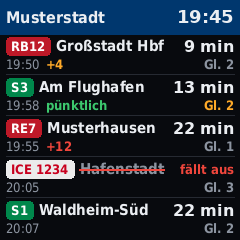
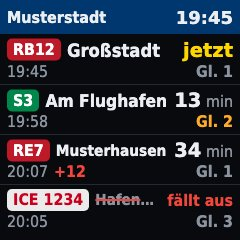
feat(pages): bahn departures page as HTML template

diff --git a/pages/bahn/template.html b/pages/bahn/template.html
@@ -1,0 +1,75 @@
+{% extends "base.html" %}
+{% block head %}
+{% set n = [rows | length, 1] | max %}
+{% set row_h = (200 // ([n, 6] | min)) %}
+{% set k = [1.0, [1.5, row_h / 41] | min] | max %}
+<style>
+.cond{font-family:'DejaVu Sans Condensed','DejaVu Sans',sans-serif;}
+.hdr{position:absolute;left:0;top:0;width:240px;height:34px;background:var(--header-bg);display:flex;align-items:center;padding:0 7px;box-sizing:border-box;}
+.hdr .title{flex:1;min-width:0;font-weight:700;font-size:16px;white-space:nowrap;overflow:hidden;text-overflow:ellipsis;margin-right:14px;}
+.hdr .clock{font-weight:700;font-size:18px;}
+.msg{position:absolute;left:0;top:34px;width:240px;height:200px;display:flex;flex-direction:column;align-items:center;justify-content:center;text-align:center;}
+.msg h1{margin:0;font-size:17px;}
+.msg p{margin:8px 0 0;font-size:13px;color:var(--muted);}
+.board{position:absolute;left:0;top:34px;width:240px;height:200px;}
+.row{--k:{{ k }};position:relative;height:{{ row_h }}px;box-sizing:border-box;padding:0 7px;}
+.row + .row{border-top:1px solid var(--divider);}
+.l1,.l2{position:absolute;left:7px;right:7px;display:flex;align-items:center;transform:translateY(-50%);white-space:nowrap;}
+.l1{top:31%;}
+.l2{top:74%;font-size:calc(13px * var(--k));}
+.badge{flex:none;max-width:calc(68px * var(--k));overflow:hidden;text-overflow:ellipsis;box-sizing:border-box;padding:0 calc(5px * var(--k));height:calc(18px * var(--k));line-height:calc(18px * var(--k));border-radius:calc(4px * var(--k));font-weight:700;font-size:calc(13px * var(--k));text-align:center;margin-right:6px;}
+.badge.s{background:rgb(0,135,75);color:#fff;}
+.badge.long{background:rgb(235,235,235);color:rgb(200,0,30);}
+.badge.regional{background:rgb(190,25,40);color:#fff;}
+.badge.other{background:rgb(90,95,110);color:#fff;}
+.dest{flex:1;min-width:0;overflow:hidden;text-overflow:ellipsis;font-weight:700;font-size:calc(15px * var(--k));margin-right:6px;}
+.dest.cancelled{color:var(--muted);text-decoration:line-through;text-decoration-color:var(--red);text-decoration-thickness:2px;}
+.right{flex:none;display:flex;align-items:baseline;}
+.right .val{font-family:'DejaVu Sans',sans-serif;font-weight:700;font-size:calc(16px * var(--k));}
+.right .val.soon{color:var(--yellow);}
+.right .val.cancelled{font-family:'DejaVu Sans Condensed',sans-serif;font-size:calc(13px * var(--k));color:var(--red);}
+.right .unit{color:var(--muted);font-size:calc(13px * var(--k));margin-left:0.3em;}
+.sched{color:var(--muted);}
+.delay{font-weight:700;margin-left:6px;}
+.delay.minor{color:var(--orange);}
+.delay.major{color:var(--red);}
+.plat{margin-left:auto;font-weight:700;color:var(--muted);}
+.plat.changed{color:var(--orange);}
+</style>
+{% endblock %}
+{% block body %}
+<div class="hdr cond"><span class="title">{{ title }}</span><span class="clock" style="font-family:'DejaVu Sans'">{{ clock }}</span></div>
+{% if message %}
+<div class="msg"><h1>{{ message }}</h1>{% if sub %}<p>{{ sub }}</p>{% endif %}</div>
+{% else %}
+<div class="board cond">
+{% for r in rows[:6] %}
+<div class="row">
+  <div class="l1">
+    <span class="badge {{ r.badge }}">{{ r.train }}</span>
+    <span class="dest{% if r.cancelled %} cancelled{% endif %}">{{ r.destination }}</span>
+    <span class="right"><span class="val {{ r.right_class }}">{{ r.right }}</span>{% if r.unit %}<span class="unit">{{ r.unit }}</span>{% endif %}</span>
+  </div>
+  <div class="l2">
+    <span class="sched">{{ r.scheduled }}</span>{% if r.delay %}<span class="delay {{ r.delay_class }}">+{{ r.delay }}</span>{% endif %}
+    {% if r.platform %}<span class="plat{% if r.platform_changed %} changed{% endif %}">{{ r.platform }}</span>{% endif %}
+  </div>
+</div>
+{% endfor %}
+</div>
+<script>
+// Too long: drop a trailing " Hbf", then shrink the font towards its base size, then ellipsize.
+// Runs on load, when the inlined fonts are ready, so the measurements are right.
+window.addEventListener('load', function () { document.querySelectorAll('.dest').forEach(function (el) {
+  var over = function () { return el.scrollWidth > el.clientWidth; };
+  if (over() && / Hbf$/.test(el.textContent)) {
+    el.textContent = el.textContent.replace(/ Hbf$/, '');
+  }
+  for (var size = parseFloat(getComputedStyle(el).fontSize); over() && size > 15; ) {
+    size = Math.max(15, size - 1);
+    el.style.fontSize = size + 'px';
+  }
+}); });
+</script>
+{% endif %}
+{% endblock %}

diff --git a/pages/bahn/test_bahn.py b/pages/bahn/test_bahn.py
@@ -1,8 +1,17 @@
 import importlib.util
+import io
 import sys
 from datetime import datetime
 from pathlib import Path
 from zoneinfo import ZoneInfo
+
+import pytest
+from PIL import Image
+
+from glancebox.config import AppConfig, PageConfig
+from glancebox.frames import render_page
+from glancebox.pages import PageContext, load_page_types
+from glancebox.render import Renderer
 
 # Load by file path: pages/bahn is not an installed package, and the top-level
 # name `departures` must not leak into sys.modules.
@@ -78,3 +87,92 @@ def test_minutes_until_with_delay_and_midnight():
     late = datetime(2026, 11, 12, 23, 55, tzinfo=TZ)
     d2 = Departure("S1", "X", "00:05", 0, None, False, False)
     assert d2.minutes_until(late) == 10
+
+
+# --- page.py (fetch + template) ---------------------------------------------------------
+
+PAGES_DIR = Path(__file__).resolve().parents[1]
+NOW = datetime(2026, 11, 12, 19, 49, tzinfo=TZ)
+
+
+@pytest.fixture
+def bahn(monkeypatch):
+    ptype = load_page_types([PAGES_DIR])["bahn"]
+    module = sys.modules["glancebox_pages.bahn"]
+    calls = []
+
+    def fake(base_url, station, **kw):
+        calls.append((base_url, station, kw))
+        return parse(SAMPLE, station)
+
+    monkeypatch.setattr(module.departures, "fetch", fake)
+    return ptype, module, calls
+
+
+def _ctx(now=NOW):
+    return PageContext(now=now, lang="de", timezone="Europe/Berlin")
+
+
+def test_fetch_rows_from_sample(bahn):
+    ptype, _, calls = bahn
+    data = ptype.fetch({"station": "Musterstadt", "via": ["West", "Nord"], "platforms": "1,2"},
+                       _ctx())
+    assert data["title"] == "Musterstadt"
+    assert data["clock"] == "19:49"
+    assert data["message"] is None
+    rows = data["rows"]
+    assert [r["right"] for r in rows] == ["5", "9", "fällt aus"]
+    assert rows[0]["unit"] == "min"
+    assert rows[0]["badge"] == "regional"
+    assert rows[0]["delay"] == 4 and rows[0]["delay_class"] == "minor"
+    assert rows[1]["badge"] == "s" and rows[1]["platform_changed"] is True
+    assert rows[1]["platform"] == "Gl. 2"
+    assert rows[2]["right_class"] == "cancelled" and rows[2]["cancelled"] is True
+    assert rows[2]["badge"] == "long" and rows[2]["unit"] == ""
+    base_url, station, kw = calls[0]
+    assert base_url == "https://dbf.finalrewind.org" and station == "Musterstadt"
+    assert kw["via"] == "West,Nord" and kw["platforms"] == "1,2"
+    assert kw["limit"] == 4 and kw["tz"] == "Europe/Berlin"
+
+
+def test_fetch_dbf_error_gives_message(bahn, monkeypatch):
+    ptype, module, _ = bahn
+
+    def boom(*a, **kw):
+        raise RuntimeError("DBF down")
+
+    monkeypatch.setattr(module.departures, "fetch", boom)
+    data = ptype.fetch({"station": "X", "title": "Mein Bahnhof"}, _ctx())
+    assert data["message"] == "Keine Daten" and data["sub"] == "Stand 19:49"
+    assert data["rows"] == [] and data["title"] == "Mein Bahnhof"
+
+
+def test_fetch_empty_list(bahn, monkeypatch):
+    ptype, module, _ = bahn
+    monkeypatch.setattr(module.departures, "fetch", lambda *a, **kw: [])
+    data = ptype.fetch({"station": "X"}, _ctx())
+    assert data["message"] == "Keine Abfahrten" and data["rows"] == []
+
+
+def test_right_soon_and_hours(bahn):
+    _, module, _ = bahn
+    soon = Departure("S1", "X", "19:50", 0, None, False, False)
+    later = Departure("S1", "X", "21:10", 0, None, False, False)
+    r1, r2 = (module._row(d, NOW) for d in (soon, later))
+    assert (r1["right"], r1["unit"], r1["right_class"]) == ("1", "min", "soon")
+    assert (r2["right"], r2["unit"], r2["right_class"]) == ("21:10", "", "")
+    now = Departure("S1", "X", "19:49", 0, None, False, False)
+    assert module._row(now, NOW)["right"] == "jetzt"
+
+
+@pytest.mark.browser
+async def test_template_renders_sample(bahn):
+    ptype, _, _ = bahn
+    cfg = AppConfig(interval=30, timezone="Europe/Berlin", lang="de",
+                    pages=(), pages_dirs=(PAGES_DIR,))
+    page = PageConfig(index=0, type="bahn", options={"station": "Musterstadt"},
+                      duration=30, refresh=60)
+    async with Renderer() as r:
+        out = await render_page(page, ptype, cfg, r, NOW.timestamp())
+    img = Image.open(io.BytesIO(out))
+    assert img.format == "JPEG" and img.size == (240, 240)

diff --git a/pages/bahn/page.py b/pages/bahn/page.py
@@ -2,7 +2,16 @@
 
 from __future__ import annotations
 
+import logging
+
+from . import departures
+
+DEFAULT_DBF_URL = "https://dbf.finalrewind.org"
+DEFAULT_LIMIT = 4
 MIN_REFRESH = 60  # DB Fahrplan rule: poll at most once a minute
+
+
+log = logging.getLogger(__name__)
 
 
 def validate(options: dict) -> None:
@@ -15,5 +24,74 @@ def validate(options: dict) -> None:
         raise ValueError("limit must be an integer between 1 and 6")
 
 
+def _joined(value) -> str | None:
+    if value is None:
+        return None
+    if isinstance(value, (list, tuple)):
+        value = ",".join(str(v).strip() for v in value if str(v).strip())
+    return str(value).strip() or None
+
+
+def _badge(train: str) -> str:
+    t = train.upper()
+    if t.startswith("S"):
+        return "s"
+    if t.startswith(("ICE", "IC", "EC", "FLX", "NJ")):
+        return "long"
+    if t.startswith(("RE", "RB", "RS", "IRE")):
+        return "regional"
+    return "other"
+
+
+def _row(dep, now) -> dict:
+    unit = ""
+    right_class = ""
+    if dep.cancelled:
+        right, right_class = "fällt aus", "cancelled"
+    else:
+        mins = dep.minutes_until(now)
+        if mins <= 0:
+            right = "jetzt"
+        elif mins < 60:
+            right, unit = str(mins), "min"
+        else:
+            right = dep.realtime(now).strftime("%H:%M")
+        if mins <= 3:
+            right_class = "soon"
+    delay = dep.delay if not dep.cancelled and dep.delay and dep.delay > 0 else None
+    return {
+        "train": dep.train,
+        "badge": _badge(dep.train),
+        "destination": dep.destination,
+        "right": right,
+        "unit": unit,
+        "right_class": right_class,
+        "scheduled": dep.scheduled,
+        "delay": delay,
+        "delay_class": "minor" if delay is not None and delay < 6 else "major",
+        "platform": f"Gl. {dep.platform}" if dep.platform else "",
+        "platform_changed": dep.platform_changed,
+        "cancelled": dep.cancelled,
+    }
+
+
 def fetch(options: dict, ctx) -> dict:
-    raise NotImplementedError("filled in by the bahn page task")
+    station = options["station"].strip()
+    limit = options.get("limit", DEFAULT_LIMIT)
+    clock = ctx.now.strftime("%H:%M")
+    data = {"title": options.get("title") or station, "clock": clock, "rows": [],
+            "message": None, "sub": None}
+    try:
+        deps = departures.fetch(
+            options.get("dbf_url", DEFAULT_DBF_URL).rstrip("/"), station,
+            via=_joined(options.get("via")), platforms=_joined(options.get("platforms")),
+            limit=limit, tz=ctx.timezone)
+    except Exception as exc:  # noqa: BLE001  network error, DBF down, unknown station ...
+        log.warning("departures unavailable: %s", exc)
+        data["message"], data["sub"] = "Keine Daten", f"Stand {clock}"
+        return data
+    if not deps:
+        data["message"] = "Keine Abfahrten"
+        return data
+    data["rows"] = [_row(d, ctx.now) for d in deps[:limit]]
+    return data

diff --git a/pages/bahn/README.md b/pages/bahn/README.md
@@ -1,0 +1,41 @@
+# bahn: departure board / Abfahrtstafel
+
+## English
+
+Live departures for a German station from [DBF](https://dbf.finalrewind.org) (db-infoscreen).
+
+```yaml
+- type: bahn
+  station: "Frankfurt(Main)Hbf"   # required
+  via: [Wiesbaden, Mainz]         # optional: only trains calling at these places (string or list)
+  platforms: "101,102"            # optional: only these platforms (string or list)
+  limit: 4                        # 1-6 rows, default 4 (fewer rows = bigger text)
+  title: "Frankfurt"              # header text, default: station
+  dbf_url: https://dbf.finalrewind.org
+  refresh: 60                     # seconds, minimum 60 (DBF rule)
+```
+
+Display: line badge (S green, long distance white/red, RB/RE red), minutes to departure
+(yellow at 3 min or less), `+delay` (orange below 6 min, red above), `Gl. X` (orange if the
+platform changed), cancelled trains struck through in red. If DBF cannot be reached the page
+shows "Keine Daten"; an empty list shows "Keine Abfahrten". The layout is `template.html`.
+
+## Deutsch
+
+Live-Abfahrten für einen deutschen Bahnhof von [DBF](https://dbf.finalrewind.org) (db-infoscreen).
+
+```yaml
+- type: bahn
+  station: "Frankfurt(Main)Hbf"   # Pflicht
+  via: [Wiesbaden, Mainz]         # optional: nur Züge mit Halt an diesen Orten (Text oder Liste)
+  platforms: "101,102"            # optional: nur diese Gleise (Text oder Liste)
+  limit: 4                        # 1-6 Zeilen, Standard 4 (weniger Zeilen = größere Schrift)
+  title: "Frankfurt"              # Kopfzeile, Standard: station
+  dbf_url: https://dbf.finalrewind.org
+  refresh: 60                     # Sekunden, mindestens 60 (DBF-Regel)
+```
+
+Anzeige: Linien-Badge (S grün, Fernverkehr weiß/rot, RB/RE rot), Minuten bis Abfahrt (gelb ab
+3 Minuten oder weniger), `+Verspätung` (orange unter 6 Min., sonst rot), `Gl. X` (orange bei
+Gleiswechsel), ausfallende Züge rot durchgestrichen. Ist DBF nicht erreichbar, zeigt die Seite
+„Keine Daten“; eine leere Liste zeigt „Keine Abfahrten“. Das Layout steht in `template.html`.
